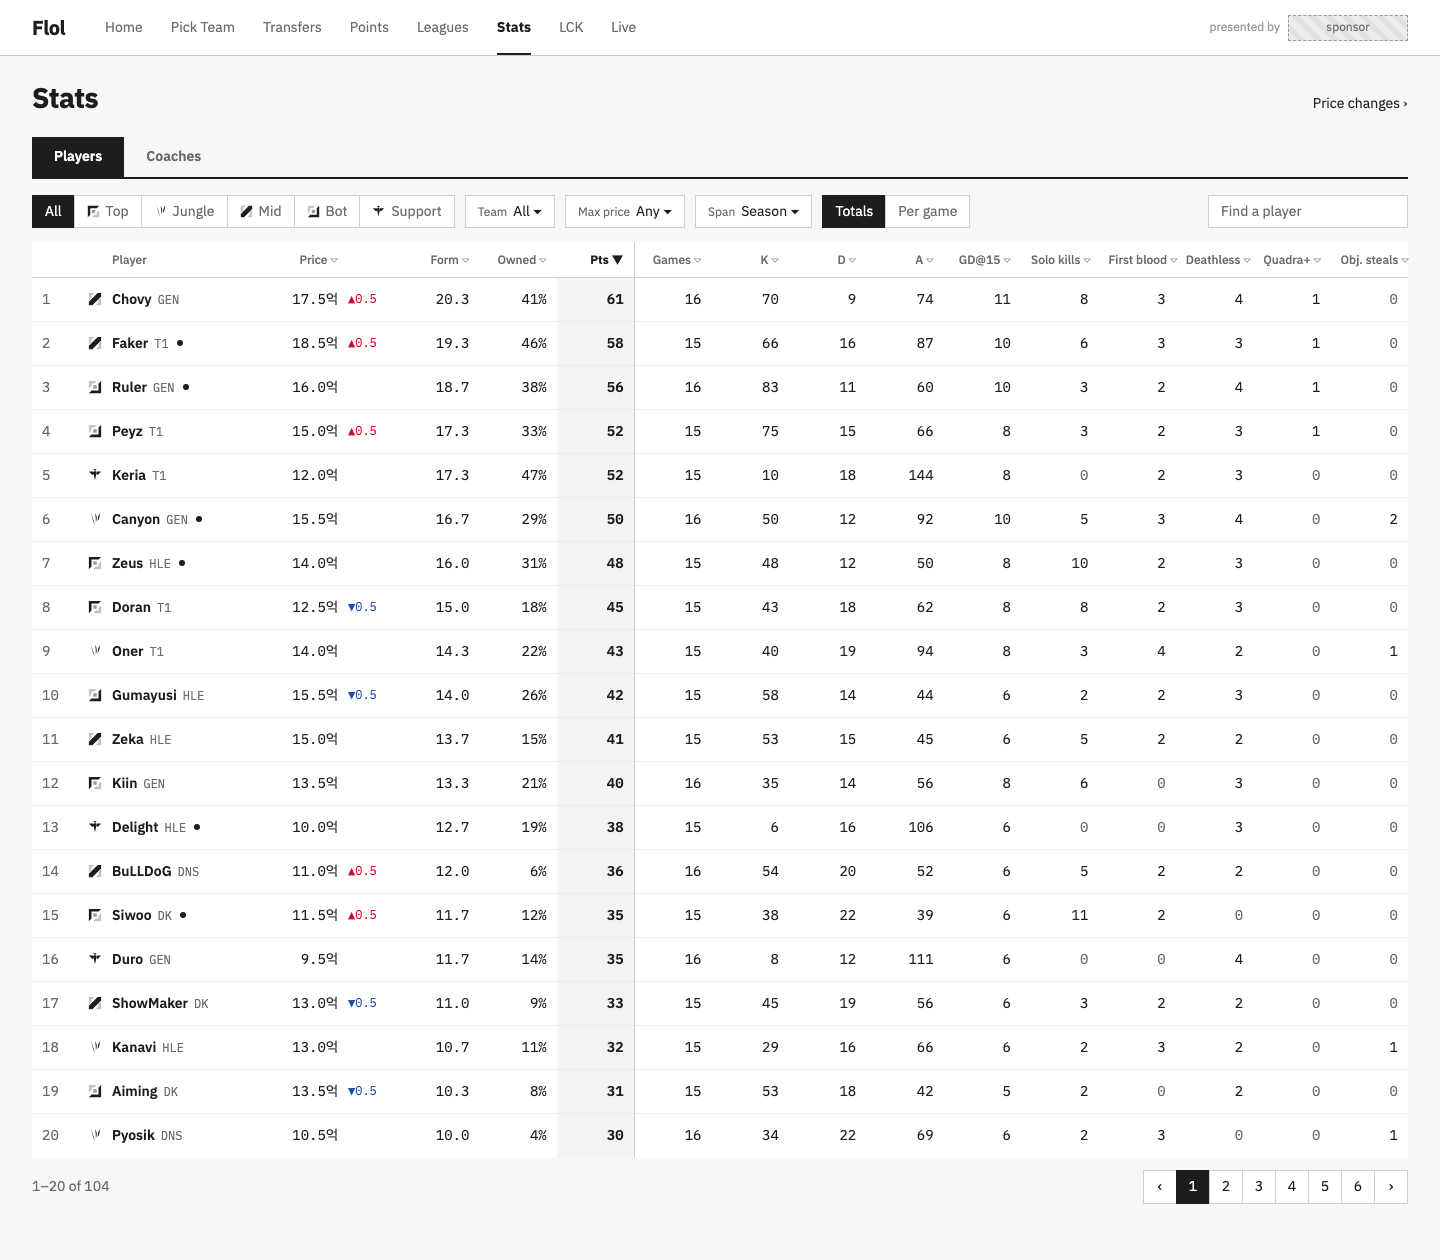
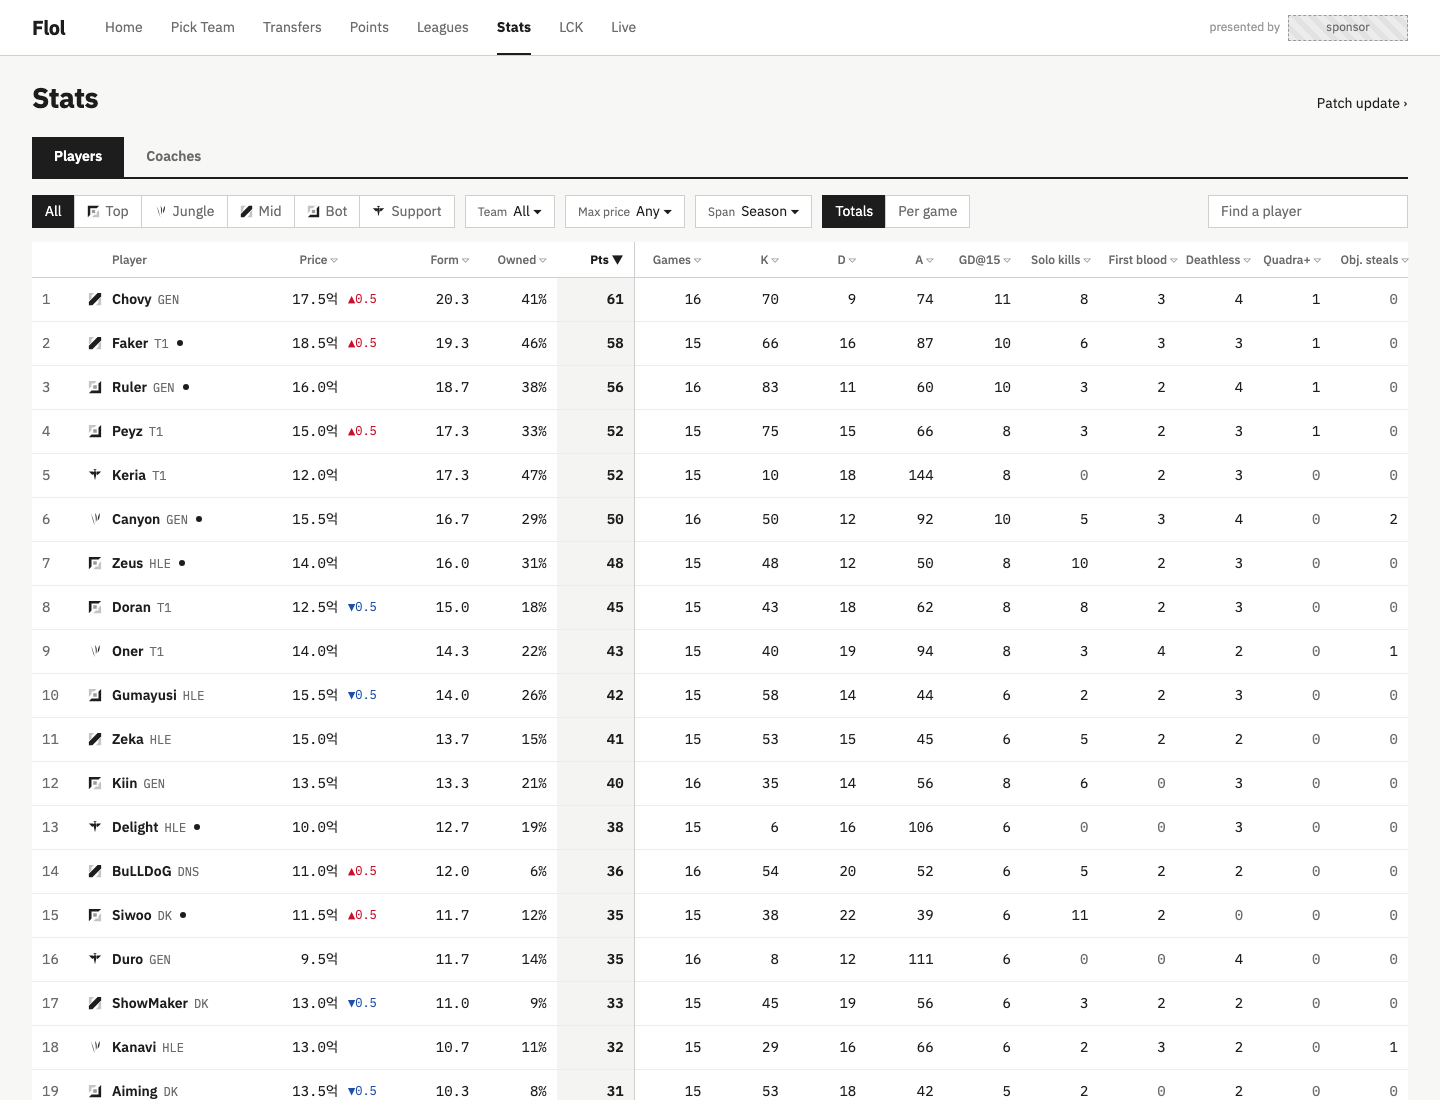
docs: Patch update approved; each gameweek's new prices, was and now

diff --git a/docs/design/approved/patch-update/patch.html b/docs/design/approved/patch-update/patch.html
@@ -1,0 +1,66 @@
+<!doctype html><html lang="en"><head><meta charset="utf-8"><title>Patch update</title><style>@import url("https://fonts.googleapis.com/css2?family=IBM+Plex+Sans+KR:wght@400;500;600;700&family=IBM+Plex+Mono:wght@400;600&display=swap");
+:root { --ink: #1d1d1d; --mid: #6b6b6b; --soft: #9a9a9a; --line: #cfcfcf; --fill: #ececec; --bg: #f7f7f5; --paper: #fff; --rise: #c8102e; --fall: #1f4fa8; }
+* { box-sizing: border-box; margin: 0; padding: 0; }
+body { width: 1440px; background: var(--bg); color: var(--ink); font: 14px/1.4 "IBM Plex Sans KR", sans-serif; }
+.num { font-family: "IBM Plex Mono", monospace; font-variant-numeric: tabular-nums; }
+nav.top { height: 56px; display: flex; align-items: center; gap: 28px; padding: 0 32px; background: var(--paper); border-bottom: 1px solid var(--line); }
+nav.top b.word { font-size: 20px; letter-spacing: -0.5px; margin-right: 12px; }
+nav.top a { color: var(--mid); text-decoration: none; }
+nav.top a.on { color: var(--ink); font-weight: 700; border-bottom: 2px solid var(--ink); padding-bottom: 16px; margin-bottom: -18px; }
+nav.top a.live::before { content: "●"; font-size: 9px; margin-right: 4px; vertical-align: 2px; }
+nav.top .sp { flex: 1; }
+.presented { color: var(--soft); font-size: 12px; display: flex; gap: 8px; align-items: center; }
+.ph { background: repeating-linear-gradient(45deg, var(--fill), var(--fill) 6px, #e2e2e2 6px, #e2e2e2 12px); border: 1px dashed var(--soft); color: var(--mid); display: flex; align-items: center; justify-content: center; font-size: 12px; }
+.page { padding: 24px 32px 48px; }
+.hd { display: flex; align-items: baseline; gap: 18px; }
+.hd h1 { font-size: 28px; letter-spacing: -.5px; }
+.hd h1 i { font-style: normal; color: var(--soft); font-size: 15px; font-weight: 400; margin-left: 8px; }
+.gw { display: flex; align-items: center; gap: 14px; font-size: 18px; font-weight: 700; }
+.gw span { color: var(--ink); font-weight: 400; padding: 0 4px; }
+.when { color: var(--mid); font-size: 13px; margin-top: 6px; }
+.when b { color: var(--ink); font-weight: 600; }
+.cols { display: grid; grid-template-columns: 560px 560px; gap: 56px; margin-top: 22px; }
+.col h2 { font-size: 15px; display: flex; justify-content: space-between; align-items: baseline; padding-bottom: 8px; border-bottom: 2px solid var(--ink); }
+.col h2 span { font-weight: 400; color: var(--mid); font-size: 12px; }
+.col.r h2 { color: var(--rise); border-color: var(--rise); } .col.f h2 { color: var(--fall); border-color: var(--fall); }
+table { width: 100%; border-collapse: collapse; background: var(--paper); }
+th { text-align: left; font-weight: 500; color: var(--mid); font-size: 12px; padding: 8px 12px; border-bottom: 1px solid var(--line); }
+th.n, td.n { text-align: right; font-family: "IBM Plex Mono", monospace; }
+td { padding: 10px 12px; border-bottom: 1px solid var(--fill); font-size: 14px; }
+td.ro { color: var(--mid); font-size: 12px; width: 70px; }
+td small { color: var(--mid); font-size: 12px; margin-left: 6px; }
+td.mv { width: 70px; font-family: "IBM Plex Mono", monospace; text-align: right; }
+.up { color: var(--rise); } .dn { color: var(--fall); }
+.mine::after { content: "●"; color: var(--ink); font-size: 9px; margin-left: 5px; vertical-align: 3px; }
+.foot { margin-top: 14px; display: flex; justify-content: space-between; color: var(--mid); font-size: 12px; }
+.foot a { color: var(--ink); text-decoration: underline; text-underline-offset: 3px; }
+</style></head><body>
+<nav class="top"><b class="word">Flol</b><a>Home</a><a>Pick Team</a><a>Transfers</a><a>Points</a><a>Leagues</a><a class="on">Stats</a><a>LCK</a><a class="live">Live</a><span class="sp"></span><span class="presented">presented by <span class="ph" style="width:120px;height:26px">sponsor</span></span></nav>
+<div class="page">
+  <div class="hd"><h1>Patch update<i>패치 노트</i></h1><div class="gw"><span>‹</span>Gameweek 4 prices<span>›</span></div></div>
+  <div class="when">Set Wed 13 Jan 07:45 your time · 16:45 KST</div>
+  <div class="cols">
+    <div class="col r"><h2>Rises</h2><table id="rises"></table></div>
+    <div class="col f"><h2>Falls</h2><table id="falls"></table></div>
+  </div>
+  <div class="foot"><span></span><a>How prices move ›</a></div>
+</div>
+<script>
+// Made-up LCK Cup: the moves made at the Week 3 deadline, seen Week 4 Tuesday 22:00 London.
+// Prices and moves agree with the approved Stats, Transfers and player-card pictures. ● = in Baron Steal FC's squad.
+// [name, team, role, new price, move, owned %, mine]
+const RISES = [
+  ["Faker", "T1", "Mid", 18.5, 0.5, 46, true], ["Chovy", "GEN", "Mid", 17.5, 0.5, 41], ["Peyz", "T1", "Bot", 15.0, 0.5, 33],
+  ["Siwoo", "DK", "Top", 11.5, 0.5, 12, true], ["BuLLDoG", "DNS", "Mid", 11.0, 0.5, 6], ["Lucid", "DK", "Jungle", 9.0, 0.5, 4],
+  ["Kingen", "NS", "Top", 6.5, 0.5, 3], ["Ssong", "DNS", "Coach", 5.5, 0.5, 3], ["Hype", "KRX", "Bot", 5.5, 0.5, 2],
+];
+const FALLS = [
+  ["Gumayusi", "HLE", "Bot", 15.5, -0.5, 26], ["Aiming", "DK", "Bot", 13.5, -0.5, 8], ["ShowMaker", "DK", "Mid", 13.0, -0.5, 9],
+  ["Doran", "T1", "Top", 12.5, -0.5, 18], ["DuDu", "DNS", "Top", 6.0, -0.5, 2], ["Clear", "BFX", "Support", 5.5, -0.5, 1], ["DanDy", "NS", "Coach", 5.0, -0.5, 1], ["Edgar", "BRO", "Coach", 4.5, -0.5, 1],
+];
+const head = `<tr><th>Player</th><th class="n">Was</th><th class="n">Now</th><th class="n">Owned</th></tr>`;
+const row = ([n, t, r, p, m, o, mine]) => `<tr><td><b>${n}</b><small class="${mine ? "mine" : ""}">${t} · ${r}</small></td><td class="n" style="color:var(--mid);width:80px">${(p - m).toFixed(1)}억</td><td class="n" style="width:100px"><span class="${m > 0 ? "up" : "dn"}" style="font-size:11px">${m > 0 ? "▲" : "▼"}</span> <b>${p.toFixed(1)}억</b></td><td class="n" style="width:80px">${o}%</td></tr>`;
+document.getElementById("rises").innerHTML = head + RISES.map(row).join("");
+document.getElementById("falls").innerHTML = head + FALLS.map(row).join("");
+</script>
+</body></html>

diff --git a/docs/design/approved/stats/stats.html b/docs/design/approved/stats/stats.html
@@ -47,7 +47,7 @@ i.me { display: inline-block; width: 6px; height: 6px; border-radius: 50%; backg
 </defs></svg>
 <nav class="top"><b class="word">Flol</b><a>Home</a><a>Pick Team</a><a>Transfers</a><a>Points</a><a>Leagues</a><a class="on">Stats</a><a>LCK</a><a>Live</a><span class="sp"></span><span class="presented">presented by <span class="ph" style="width:120px;height:26px">sponsor</span></span></nav>
 <div class="page">
-  <div class="head"><h1>Stats</h1><span style="flex:1"></span><a>Price changes ›</a></div>
+  <div class="head"><h1>Stats</h1><span style="flex:1"></span><a>Patch update ›</a></div>
   <div class="tabs" id="tabs"></div>
   <div class="ctl" id="ctl"></div>
   <table id="tb"></table>

diff --git a/SPEC.md b/SPEC.md
@@ -42,7 +42,7 @@ and the detail waits for its `/grill`; `not built` means it is grilled and waits
 | 9 | [Onboarding](spec/09-onboarding.md) | Copies UCL Fantasy: a new visitor lands on the pick-a-team page, with Auto-fill, and the squad is kept in the browser. Sign-up comes on Save: Google or Discord, then team name, favourite team, country. Late joiners as in FPL. | partly built: rules only, no screen or sign-in yet |
 | 10 | [Season and gameweeks](spec/10-season-and-gameweeks.md) | The LCK Cup is a closed beta; Road to MSI and the LCK playoffs are the real test. Each stage's rules are settings, set when the 2027 fixtures are out. A gameweek is one LCK week, its deadline 15 minutes before its first series, knockouts included. In knockouts the team cap rises from 2 to 3, the budget is raised, transfers are unlimited and every series counts. | not built |
 | 11 | [Live points](spec/11-live-points.md) | The beta has live points from Riot's unofficial feed, shown as provisional. A series turns final 3 hours after it ends, from Oracle's Elixir and Leaguepedia. Ranks move when a series is final; prices only at the deadline. | partly built: settled-stats rules, a series' final state and an admin's pasted Leaguepedia key; no live feed, fetching or storage yet |
-| 12 | [Pages](spec/12-pages.md) | Home (a status page), Pick Team, Transfers, Points, Leagues, Stats, an LCK hub for the LCK's fixtures, standings and rosters, a series page, player and coach pop-ups, public manager profiles, Perfect game (the week's best team), Price changes, Live (a stream picker: official broadcasts and co-streamers beside live points), Help and Settings. | not built |
+| 12 | [Pages](spec/12-pages.md) | Home (a status page), Pick Team, Transfers, Points, Leagues, Stats, an LCK hub for the LCK's fixtures, standings and rosters, a series page, player and coach pop-ups, public manager profiles, Perfect game (the week's best team), Patch update (the new prices each gameweek), Live (a stream picker: official broadcasts and co-streamers beside live points), Help and Settings. | not built |
 | 13 | [Korean touches](spec/13-korean-touches.md) | Made-up Korean sponsors from LCK memes, each explaining its meme on tap; coffee, protest and sponsor trucks ([spec/14](spec/14-following.md)); a birthday cake on a player's week; a hangul banner for your team. No points. | not built |
 | 14 | [Following and trucks](spec/14-following.md) | Follow other managers by request, one-way, in the beta. A feed of their series points, big Carries and transfers. Truck anyone you follow once a gameweek: coffee to cheer, protest to jeer, from a database of preset lines; sponsor trucks to each private league's weekly top. | not built |
 

diff --git a/spec/12-pages.md b/spec/12-pages.md
@@ -32,7 +32,7 @@ FPL's, or FPL's logic ([SPEC.md](../SPEC.md), the base assumption). Open questio
   - Each row also shows price and its last move, form, owned and points, as FPL's list does. Any
     column sorts. Your own players carry a dot. Academy players are listed, after everyone with
     games (Craig, 16 Nov 2026).
-  - It links to Price changes. The picture is `docs/design/approved/stats/`.
+  - It links to Patch update. The picture is `docs/design/approved/stats/`.
 - **LCK hub**: the LCK's own fixtures, standings and team rosters. There is no separate Fixtures
   page.
   - Tabs: Fixtures, Results, Standings and Teams, each its own (Craig, 15 Nov 2026). Standings
@@ -59,11 +59,17 @@ FPL's, or FPL's logic ([SPEC.md](../SPEC.md), the base assumption). Open questio
     applies, the budget does not (Craig, 16 Nov 2026). FPL's Team of the Week has no captain and ignores both.
   - It builds live, with a Not final tag until the week is final.
   - Reached from links on Points and Home.
-- **Price changes**: the week's rises and falls. Past moves only, no prediction.
+- **Patch update** (Craig, 15 Nov 2026; spec once called it Price changes): the new prices for a
+  gameweek, set once the deadline before it passes ("just shows the new prices, thats it really").
+  Past moves only, no prediction.
   - Reached from links on Stats and Transfers. ‹ Week › arrows go back through past weeks
     (Craig, 16 Nov 2026).
   - Rises and falls side by side. A rise is Korean red, a fall blue, on every screen that shows
     a price move (Craig, 16 Nov 2026).
+  - Each row: player, team and role, the price before and after, and owned. A dot marks your
+    own players. Titled by the gameweek the prices are for ("Gameweek 4 prices"), with when they
+    were set; no next move, no filters, no explainer lines (Craig, 15 Nov 2026). The picture is
+    `docs/design/approved/patch-update/`.
   - Before the first move: "No moves yet".
 - **Live**: in the beta. It embeds a stream beside the manager's live points. Its points panel
   waits on the live points spec ([spec/11](11-live-points.md)).

diff --git a/docs/design/approved/patch-update/README.md b/docs/design/approved/patch-update/README.md
@@ -1,0 +1,34 @@
+# Patch update
+
+The new prices for a gameweek, set once the deadline before it passes (spec/12, Patch update). It is reached from **Patch update ›** on [Stats](../stats/), and from Transfers, whose link is placed at build.
+
+**Approved:** Craig, 15 Nov 2026: "just shows the new prices, thats it really", then cut the footer line ("people arent idiots"), asked for "a previous and new price", the title "new prices for gameweek 4", no Gameweek 5 line, and "Save it". The data is dummy ("use dummy data"); prices agree with the [Stats](../stats/) picture where it lists the player. There is no `plate.md` yet, so this binds layout, content and order, not colour or type, except the rise in red and the fall in blue, set for every screen. The source is `patch.html`; its brief is [docs/design/proposals/2026-11-16-price-changes/](../../proposals/2026-11-16-price-changes/).
+
+| File | Shows |
+|---|---|
+| `1440.png`, `patch.html` | Gameweek 4 prices, seen in Week 4 |
+
+## Borrowed
+
+- **fpl.page's price history**: each week split into rises and falls.
+- **Korean markets**: a rise in red, a fall in blue.
+- **LoL patch notes**: the name, 패치 노트.
+
+## Controls
+
+- **‹ ›**: the gameweek before or after; no › past the latest prices.
+- **A name**: opens the player or coach card.
+- **How prices move ›**: the Help page's formula (spec/02).
+
+## Layout
+
+- **Head**: Patch update, ‹ Gameweek 4 prices ›, and when they were set, your time and KST.
+- **Rises** (left) and **Falls** (right): player, team and role; Was; Now with ▲ or ▼; Owned. Coaches are listed by the same rule. A dot after the team marks your own players.
+- Before the first move, the lists read "No moves yet".
+
+## Placeholders
+
+| What | Issue |
+|---|---|
+| Prices and their moves | #22, #23 |
+| Owned | #36 |

diff --git a/docs/decisions.md b/docs/decisions.md
@@ -349,6 +349,17 @@ Settled; the spec is [spec/12-pages.md](../spec/12-pages.md), the picture `docs/
 - Per game: "first blood should be a count actually"; "and we have a toggle for count/per game count". Every line is a count, and the toggle divides them all.
 - The picture: "looks good", then "save".
 
+## Patch update design round (15 Nov 2026)
+
+Settled; the spec is [spec/12-pages.md](../spec/12-pages.md), the picture `docs/design/approved/patch-update/`.
+
+- "patch update, just shows the new prices, thats it really, occurs once a gameweek dealine had passed". The page is named Patch update; filters and the season view are left out.
+- "in your squad · 1억 = 100 million won, game money only please remove this fluff man people arent idiots": the footer line went.
+- "use dummy data": roster facts in the picture are made up, not checked.
+- "do a previous and new price": Was and Now columns.
+- "dotn say week 3 deadline, thats confusing, new price sfor gameweek 4 it should be"; "dont mention gameweej 5 thats fluff": titled Gameweek 4 prices, with only when they were set.
+- The picture: "Save it".
+
 ## Open
 
 - How the achievements cap and rank: a separate column, and base points decide ties?

diff --git a/docs/design/approved/stats/README.md b/docs/design/approved/stats/README.md
@@ -17,7 +17,7 @@ Every stat Flol holds, players and coaches, in one sortable list (spec/12, Stats
 
 ## Layout
 
-- **Head**: Stats, with **Price changes ›** at the right.
+- **Head**: Stats, with **Patch update ›** at the right.
 - **Tabs**: Players | Coaches.
 - **Controls**, one row: role (players only), Team, Max price, Span (Season, or one gameweek), Totals | Per game, and a search.
 - **Players**: rank, role, name and team, price and its last move (▲0.5 red, ▼0.5 blue), form, owned, Pts, then Games and the lines: K, D, A, GD@15, Solo kills, First blood, Deathless, Quadra+, Obj. steals. Your own players carry a dot after the team. The page holds 20 rows, with pages beneath. Academy players come after everyone with games.
@@ -30,7 +30,7 @@ Every stat Flol holds, players and coaches, in one sortable list (spec/12, Stats
 - **Role, Team, Max price, Span**: filter the list.
 - **Totals | Per game**: switches the figures.
 - **A name**: opens the player or coach card.
-- **Price changes ›**: opens Price changes.
+- **Patch update ›**: opens Patch update.
 
 ## Placeholders
 
